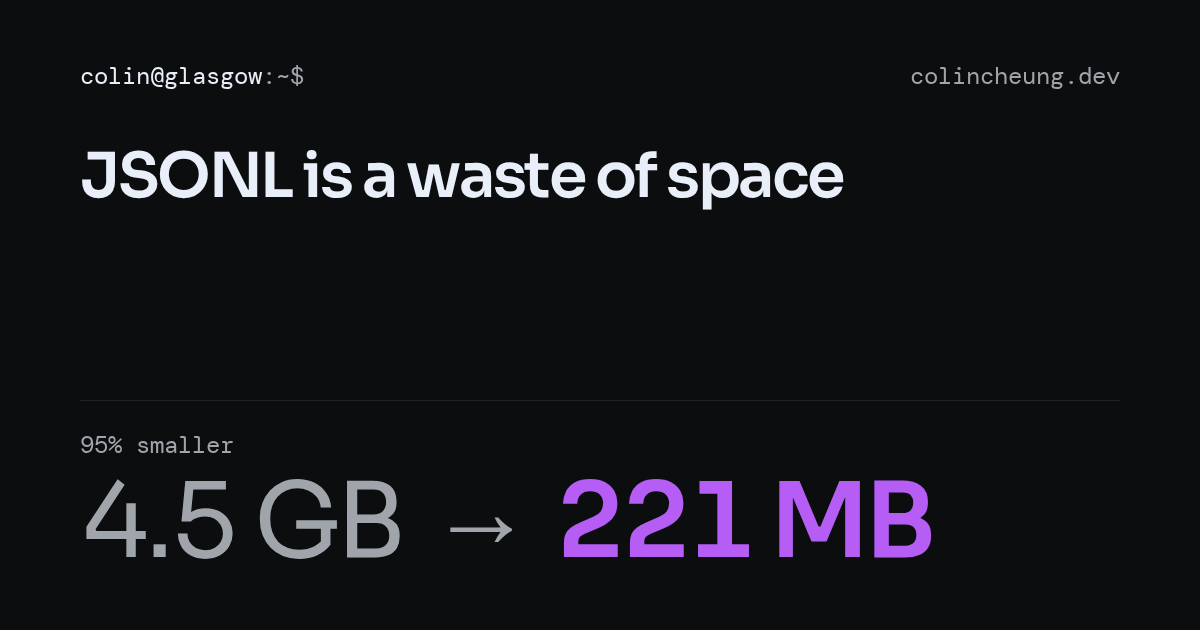
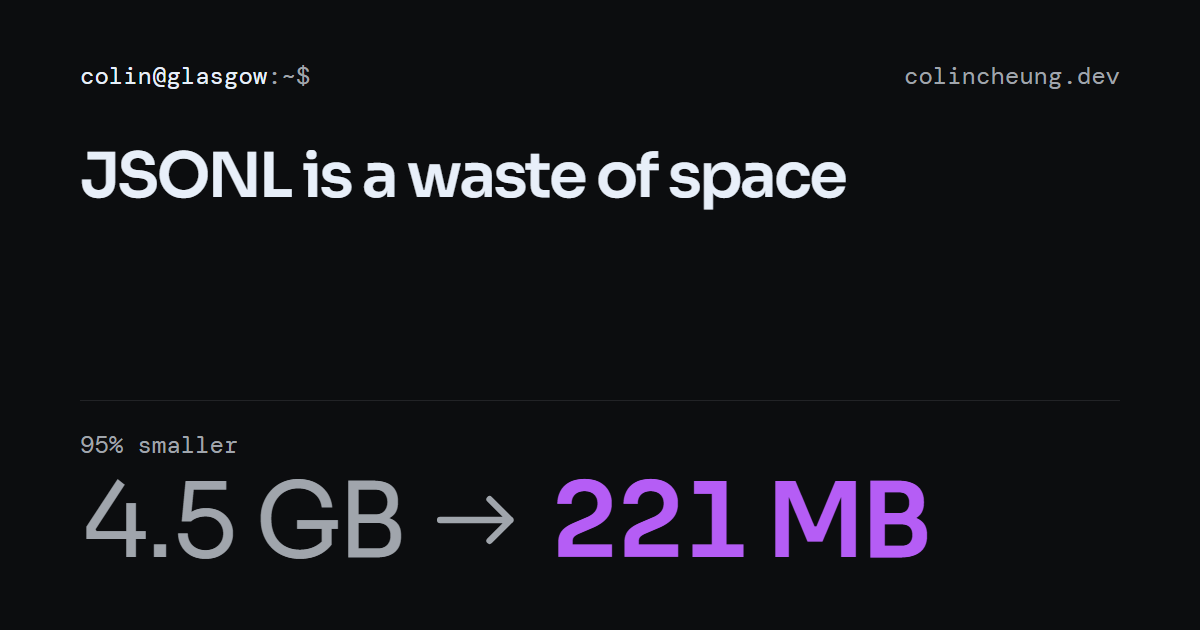
Stat arrows sit in the middle of the numbers on every device
The site's fonts have no → glyph, so the arrow came from each visitor's
system font at its own height. Draw it instead, from one source used by the
post header, blog index, home page, design page and share cards, and test
its position on every post with an arrow stat.

diff --git a/tests/stat-arrow.spec.ts b/tests/stat-arrow.spec.ts
@@ -1,0 +1,63 @@
+import { readdirSync, readFileSync } from "node:fs";
+import { expect, test } from "@playwright/test";
+
+// Why the arrow is drawn: DESIGN.md, "Stat arrow".
+const MAX_OFF_EM = 0.04;
+const arrowPosts = readdirSync("src/content/blog")
+  .filter((f) =>
+    /^stat: .*→/m.test(readFileSync(`src/content/blog/${f}`, "utf8")),
+  )
+  .map((f) => `/blog/${f.replace(/\.mdx?$/, "")}/`);
+
+const views = [
+  { name: "phone", width: 390, height: 844 },
+  { name: "laptop", width: 1440, height: 900 },
+];
+
+for (const vp of views)
+  for (const path of ["/", "/blog/", "/design/", ...arrowPosts]) {
+    test(`${vp.name} ${path}: stat arrows sit on the middle of the digits`, async ({
+      page,
+    }) => {
+      await page.setViewportSize(vp);
+      await page.goto(path, { waitUntil: "networkidle" });
+      const arrows = page.locator(".stat-arrow");
+      await expect(arrows.first()).toBeAttached();
+      const offs = await arrows.evaluateAll(async (svgs) => {
+        await document.fonts.ready;
+        return Promise.all(
+          svgs.map(async (svg) => {
+            const cs = getComputedStyle(svg.parentElement as HTMLElement);
+            const size = parseFloat(cs.fontSize);
+            const font = `${cs.fontWeight} ${size}px ${cs.fontFamily}`;
+            const ctx = document.createElement("canvas").getContext("2d");
+            if (!ctx) throw new Error("no canvas");
+            ctx.font = font;
+            const ink = ctx.measureText("0123456789");
+            const digitsMid =
+              (ink.actualBoundingBoxAscent - ink.actualBoundingBoxDescent) / 2;
+            // A zero-size inline-block's bottom edge is the line's baseline.
+            const probe = document.createElement("span");
+            probe.style.cssText = "display:inline-block;width:0;height:0";
+            svg.after(probe);
+            const baseline = probe.getBoundingClientRect().bottom;
+            probe.remove();
+            const box = svg.getBoundingClientRect();
+            const arrowMid = baseline - (box.top + box.bottom) / 2;
+            return Math.abs(arrowMid - digitsMid) / size;
+          }),
+        );
+      });
+      for (const off of offs)
+        expect(off, "arrow off the digits' middle, in em").toBeLessThan(
+          MAX_OFF_EM,
+        );
+      const stats = await page
+        .locator(".figs dd, .log__was, .wr__was")
+        .allTextContents();
+      expect(
+        stats.filter((s) => s.includes("→")),
+        "a typed → in a stat",
+      ).toEqual([]);
+    });
+  }

diff --git a/scripts/og/render.ts b/scripts/og/render.ts
@@ -10,6 +10,7 @@
 import { mkdirSync, readdirSync, readFileSync, writeFileSync } from "node:fs";
 import { fileURLToPath } from "node:url";
 import { chromium } from "@playwright/test";
+import { statArrow } from "../../src/components/site/stat-arrow.ts";
 
 const here = (p: string) => fileURLToPath(new URL(p, import.meta.url));
 const blog = here("../../src/content/blog");
@@ -42,23 +43,26 @@ for (const file of readdirSync(blog).filter((f) => /\.mdx?$/.test(f))) {
   const slug = file.replace(/\.mdx?$/, "");
   const post = front(file);
   await page.goto(`file://${here("./post.html")}`);
-  await page.evaluate(({ title, stat, label }) => {
-    const $ = (s: string) => document.querySelector(s) as HTMLElement;
-    $("[data-title]").textContent = title;
-    $("[data-label]").textContent = label;
-    const value = $("[data-value]");
-    // "428 s → 23 s" splits into old and new; "82% vs 80%" stays one value
-    const [was, now] = stat.split("→").map((s) => s.trim());
-    if (now) {
-      value.innerHTML = `<span class="was"></span><span class="to">→</span><span class="now"></span>`;
-      $(".was").textContent = was;
-      $(".now").textContent = now;
-    } else {
-      value.innerHTML = `<span class="now"></span>`;
-      $(".now").textContent = was;
-      value.classList.toggle("flat", stat.includes(" vs "));
-    }
-  }, post);
+  await page.evaluate(
+    ({ title, stat, label, arrow }) => {
+      const $ = (s: string) => document.querySelector(s) as HTMLElement;
+      $("[data-title]").textContent = title;
+      $("[data-label]").textContent = label;
+      const value = $("[data-value]");
+      // "428 s → 23 s" splits into old and new; "82% vs 80%" stays one value
+      const [was, now] = stat.split("→").map((s) => s.trim());
+      if (now) {
+        value.innerHTML = `<span class="was"></span><span class="to">${arrow}</span><span class="now"></span>`;
+        $(".was").textContent = was;
+        $(".now").textContent = now;
+      } else {
+        value.innerHTML = `<span class="now"></span>`;
+        $(".now").textContent = was;
+        value.classList.toggle("flat", stat.includes(" vs "));
+      }
+    },
+    { ...post, arrow: statArrow },
+  );
   await page.evaluate(() => document.fonts.ready);
   // A long stat ("−£671.92 → +£154.69") steps down until it fits on one line
   await page.evaluate(() => {

diff --git a/src/components/site/stat-arrow.ts b/src/components/site/stat-arrow.ts
@@ -1,0 +1,6 @@
+// The arrow in a stat like "32 → 9 min", for the pages (StatArrow.astro) and
+// the share cards (scripts/og/render.ts). Drawn, not typed: the site's fonts
+// are Latin subsets with no →, so a typed one comes from the visitor's system
+// font, at that font's height. 0.5em tall with its middle at 0.36em: the
+// middle of Sora and DM Mono digits.
+export const statArrow = `<svg class="stat-arrow" viewBox="0 0 16 10" role="img" aria-label="to" style="width:0.8em;height:0.5em;margin:0 0.3em;vertical-align:0.11em;overflow:visible;fill:none;stroke:currentColor;stroke-width:1.25;stroke-linecap:round;stroke-linejoin:round"><path d="M1 5h13.5M10.5 1l4 4-4 4"/></svg>`;

diff --git a/scripts/og/post.html b/scripts/og/post.html
@@ -90,13 +90,8 @@
         color: var(--faint);
         font-weight: 400;
       }
-      /* lifted from x-height to the middle of the digits */
       .value .to {
-        display: inline-block;
-        margin: 0 0.25em;
-        transform: translateY(-0.1em);
         color: var(--faint);
-        font-weight: 400;
       }
       .value .now {
         color: var(--accent);

diff --git a/DESIGN.md b/DESIGN.md
@@ -461,6 +461,14 @@ curve in a component is a bug unless it is a content timing.
   prose. Wraps the one number in a paragraph that is the point; any other number
   stays bold ink.
 
+### Stat arrow (enforced by `tests/stat-arrow.spec.ts`)
+- The `→` in a frontmatter `stat` ("32 → 9 min") is drawn by
+  `src/components/site/stat-arrow.ts`, never typed, wherever a stat shows: post
+  header, blog index, home page and share cards. The site's fonts are Latin
+  subsets with no `→`, so a typed one lands at the visitor's system font's
+  height. The drawn one sits on the middle of the digits and takes the old
+  value's colour.
+
 ### Blog Post (long-form reading)
 - Posts render on the shared `Base` shell via `layouts/Post.astro`; the prose styles are `styles/prose.css`. Below `64rem` it is a
   single `--w-prose` column. At `64rem` and up the post sits on `--w-page`, inset by
